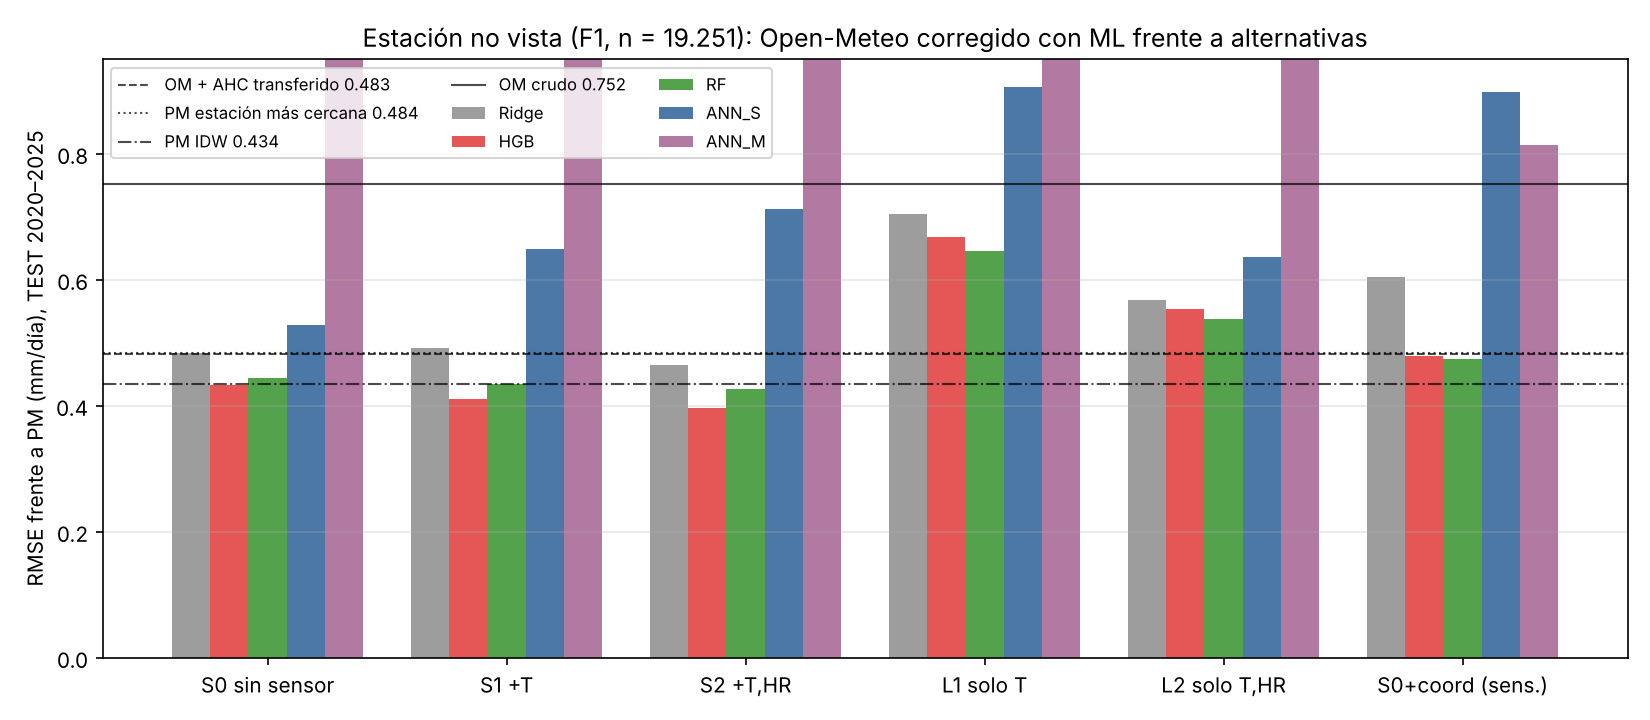
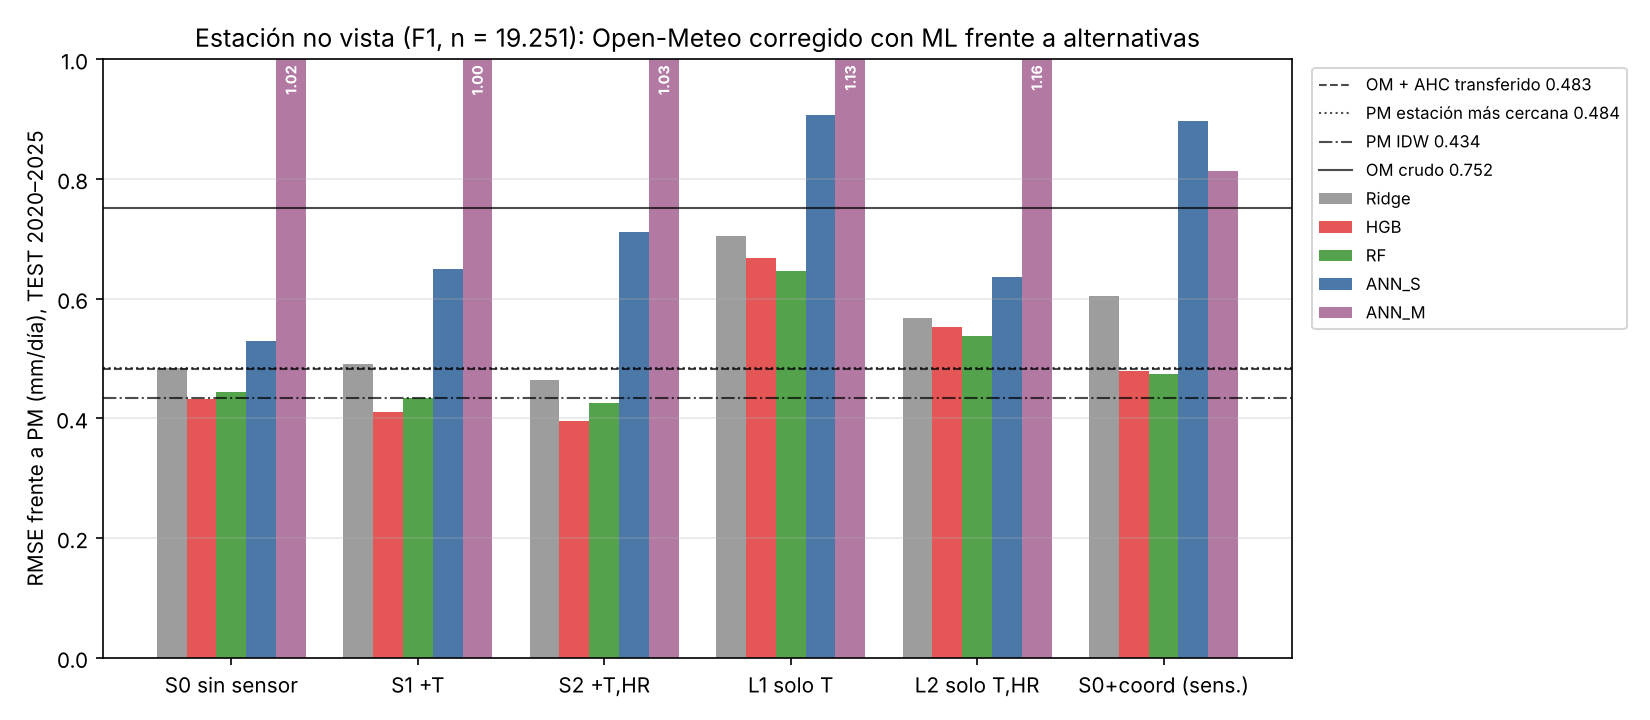
03.2: análisis e interpretación completos; diagnóstico del fallo de las ANN (extrapolación de altitud en IB01)
- README: estado completo (360/360), tiempos reales de Kaggle, tabla RMSE por escenario y modelo,
  RF y ANN (secundario), sensibilidad sin IB01, interpretación y salvedades.
- diagnostico_ann_altitud.py (+ test): rangos de inputs estáticos, F1 sin IB01 con el mismo
  bootstrap y RMSE por semilla. Exploratorio, sin veredicto.
- report.py: figura 1 sin barras tapadas (valores rotulados) y nueva figura 4 (ANN por estación y altitud).
- Veredictos H1-H4 sin cambios.

Claude-Session: https://claude.ai/code/session_014ePgLxXa6utbKFVDTTjPkL

diff --git a/studies/03_loso_openmeteo_ml/diagnostico_ann_altitud.py b/studies/03_loso_openmeteo_ml/diagnostico_ann_altitud.py
@@ -1,0 +1,100 @@
+"""Diagnóstico posterior (sin veredicto) del fallo de las ANN en F1: extrapolación de inputs estáticos.
+
+No forma parte de la regla de decisión ni cambia ningún criterio. Lee las predicciones ya calculadas
+(`results/predictions_test.csv.gz`, `results/cells/`) y escribe:
+
+- results/diagnostico_rango_inputs_estaticos.csv: por estación dejada fuera, si su altitud, latitud o
+  longitud caen fuera del rango de las 8 estaciones de entrenamiento.
+- results/diagnostico_sin_IB01.csv: F1 sin IB01 (8 estaciones), ΔRMSE con IC 95 % (mismo bootstrap de
+  bloques estación-año, mismas funciones que report.py) y RMSE por semilla de las ANN.
+
+    python studies/03_loso_openmeteo_ml/diagnostico_ann_altitud.py
+"""
+from __future__ import annotations
+
+import gzip
+import json
+import sys
+from pathlib import Path
+
+import numpy as np
+import pandas as pd
+
+sys.path.insert(0, str(Path(__file__).resolve().parent))
+from run import CELLS, RES, lc  # noqa: E402
+
+MODELS = ["Ridge", "HGB", "RF", "ANN_S", "ANN_M"]
+SCEN = ["S0", "S1", "S2", "L1", "L2", "S0_coord"]
+COMP = ["OM_AHC_mensual_medio_entrenamiento", "PM_estacion_mas_cercana_mismo_dia",
+        "PM_IDW_estaciones_entrenamiento_mismo_dia"]
+
+
+def static_ranges():
+    st = lc.load_stations().rename(columns={"latitude_deg": "lat", "longitude_deg_derived": "lon"})
+    rows = []
+    for c in st.index:
+        o = st.drop(c)
+        row = {"station_code": c}
+        for k in ("altitude_m", "lat", "lon"):
+            row[k] = float(st.loc[c, k])
+            row[f"{k}_train_min"], row[f"{k}_train_max"] = float(o[k].min()), float(o[k].max())
+            row[f"{k}_fuera_de_rango"] = not (o[k].min() <= st.loc[c, k] <= o[k].max())
+        rows.append(row)
+    return pd.DataFrame(rows)
+
+
+def without(pred, station="IB01"):
+    q = pred[pred.fold.str.startswith("F1") & (pred.station_code != station)].reset_index(drop=True)
+    bi, _ = lc.block_index(q.station_code, q.date)
+    draws = lc.boot_draws(bi.max() + 1)
+    rows = []
+
+    def add(kind, a, b):
+        d0, lo, hi = lc.paired_delta_ci(q[a].to_numpy(), q[b].to_numpy(), q.pm.to_numpy(), bi, draws)
+        rows.append({"kind": kind, "A": a, "B": b, "n": len(q), "n_blocks": int(bi.max() + 1),
+                     "rmse_A": lc.metrics(q[a], q.pm)["rmse"], "rmse_B": lc.metrics(q[b], q.pm)["rmse"],
+                     "delta_rmse": d0, "ci95_lo": lo, "ci95_hi": hi})
+
+    for s in SCEN:
+        for m in MODELS:
+            if m != "HGB":
+                add("modelo_vs_HGB", f"{s}|{m}", f"{s}|HGB")
+    for m in MODELS:
+        for c in COMP:
+            add("S0_vs_comparador", f"S0|{m}", c)
+    add("hipotesis_H1_sin_IB01", "S0|HGB", COMP[0])
+    add("hipotesis_H2_sin_IB01", "S0|HGB", COMP[1])
+    add("hipotesis_H3_sin_IB01", "S2|HGB", "S0|HGB")
+    return pd.DataFrame(rows)
+
+
+def seed_rmse(pred, station="IB01"):
+    rows = []
+    f1 = pred[pred.fold.str.startswith("F1")]
+    for m in ("ANN_S", "ANN_M"):
+        for s in SCEN:
+            for excl in (False, True):
+                err = [[] for _ in range(5)]
+                for f in sorted(CELLS.glob(f"F1_*__{s}__{m}.json.gz")):
+                    c = json.load(gzip.open(f))
+                    if excl and station in c["fold"]:
+                        continue
+                    ref = f1[f1.fold == c["fold"]].pm.to_numpy()
+                    for i, sp in enumerate(c["seed_preds"]):
+                        err[i].append(np.asarray(sp) - ref)
+                r = [float(np.sqrt(np.mean(np.concatenate(e) ** 2))) for e in err]
+                rows.append({"model": m, "scenario": s, "sin": station if excl else "", "rmse_seeds": r,
+                             "rmse_seed_min": min(r), "rmse_seed_max": max(r), "rmse_seed_sd": float(np.std(r, ddof=1))})
+    return pd.DataFrame(rows)
+
+
+def main():
+    pred = pd.read_csv(RES / "predictions_test.csv.gz")
+    static_ranges().to_csv(RES / "diagnostico_rango_inputs_estaticos.csv", index=False)
+    without(pred).to_csv(RES / "diagnostico_sin_IB01.csv", index=False, float_format="%.6f")
+    seed_rmse(pred).to_csv(RES / "diagnostico_semillas_ann.csv", index=False, float_format="%.6f")
+    print("escrito: diagnostico_rango_inputs_estaticos.csv, diagnostico_sin_IB01.csv, diagnostico_semillas_ann.csv")
+
+
+if __name__ == "__main__":
+    main()

diff --git a/studies/03_loso_openmeteo_ml/report.py b/studies/03_loso_openmeteo_ml/report.py
@@ -276,8 +276,15 @@ def figures(glob, by_st, by_m):
                                           "S0+coord (sens.)"])
     ax.set_ylabel("RMSE frente a PM (mm/día), TEST 2020–2025")
     ax.set_title("Estación no vista (F1, n = 19.251): Open-Meteo corregido con ML frente a alternativas")
-    ax.legend(fontsize=8, ncol=3, loc="upper left")
-    ax.set_ylim(0, 0.95)
+    top = 1.0
+    for i, m in enumerate(models):  # barras recortadas por el eje: se rotula su valor
+        for j, s_ in enumerate(SCENARIOS):
+            v = g.get(f"{s_}|{m}", np.nan)
+            if np.isfinite(v) and v > top:
+                ax.text(j + (i - (len(models) - 1) / 2) * w, top - 0.01, f"{v:.2f}", rotation=90,
+                        ha="center", va="top", fontsize=7, color="white", fontweight="bold")
+    ax.legend(fontsize=8, ncol=1, loc="upper left", bbox_to_anchor=(1.01, 1.0))
+    ax.set_ylim(0, top)
     ax.grid(axis="y", alpha=0.3)
     fig.tight_layout()
     fig.savefig(FIG / "01_rmse_escenario_modelo.png", dpi=150)
@@ -301,6 +308,31 @@ def figures(glob, by_st, by_m):
     fig.tight_layout()
     fig.savefig(FIG / "02_rmse_por_estacion.png", dpi=150)
     plt.close(fig)
+
+    # 4: ANN frente a HGB y RF por estacion (S0): extrapolacion en altitud
+    alt = lc.load_stations().altitude_m
+    keys = [(m, f"S0|{m}") for m in ("HGB", "RF", "ANN_S", "ANN_M") if f"S0|{m}" in s]
+    if keys:
+        fig, ax = plt.subplots(figsize=(11, 4.5))
+        w = 0.8 / len(keys)
+        top = 1.2
+        for i, (lab, k) in enumerate(keys):
+            x = np.arange(len(s)) + (i - (len(keys) - 1) / 2) * w
+            ax.bar(x, np.minimum(s[k], top), w, label=lab, color=COLORS[lab])
+            for xi, v in zip(x, s[k]):
+                if v > top:
+                    ax.text(xi, top - 0.02, f"{v:.2f}", rotation=90, ha="center", va="top", fontsize=7,
+                            color="white", fontweight="bold")
+        ax.set_xticks(range(len(s)), [f"{c}\n{alt.get(c, np.nan):.0f} m" for c in s.index])
+        ax.set_ylabel("RMSE (mm/día)")
+        ax.set_title("S0 por estación dejada fuera (F1): las ANN fallan donde la altitud queda fuera del rango "
+                     "de entrenamiento (IB01, 120 m; resto 4–82 m)", fontsize=10)
+        ax.set_ylim(0, top)
+        ax.legend(fontsize=8, ncol=4, loc="upper right")
+        ax.grid(axis="y", alpha=0.3)
+        fig.tight_layout()
+        fig.savefig(FIG / "04_ann_por_estacion_altitud.png", dpi=150)
+        plt.close(fig)
 
     # 3: por mes
     mm = by_m[(by_m.scope == "F1") & (by_m.breakdown == "month")].pivot(index="key", columns="method", values="rmse")

diff --git a/tests/test_estudio_03_2.py b/tests/test_estudio_03_2.py
@@ -149,3 +149,13 @@ class KaggleSessionsPartitionTest(unittest.TestCase):
         heavy = {(f["id"], s, m) for f, s, m in r.select_cells(r.HEAVY)}
         self.assertEqual(set(seen), heavy)
         self.assertEqual(len(heavy), 216)
+
+
+@unittest.skipUnless(HAVE, "faltan numpy/pandas/sklearn")
+class DiagnosticoAltitudTest(unittest.TestCase):
+    def test_static_ranges_flags_out_of_range_stations(self):
+        d = _load("estudio03_2_diag", STUDY / "diagnostico_ann_altitud.py").static_ranges().set_index("station_code")
+        self.assertEqual(len(d), 9)
+        self.assertEqual(set(d.index[d.altitude_m_fuera_de_rango]), {"IB01", "IB06"})
+        self.assertEqual(set(d.index[d.lat_fuera_de_rango]), {"IB08", "IB11"})
+        self.assertEqual(d.loc["IB01", "altitude_m_train_max"], 82.0)

diff --git a/studies/03_loso_openmeteo_ml/README.md b/studies/03_loso_openmeteo_ml/README.md
@@ -4,7 +4,7 @@
 
 Estado: **PLAN**. Protocolo y criterios en `config/thresholds_v3.json`; se congelan al fusionar el PR que los introduce, antes de ejecutar nada de este protocolo.
 
-> **Ejecución (2026-11-26): EN PARTE.** Hecho: todos los comparadores, Ridge y HGB (primario) en las 12 particiones y los 6 escenarios, es decir, **todo lo que entra en H1–H4**, con veredicto más abajo («Resultados»). Pendiente: RF, ANN-S y ANN-M (216 celdas, secundarios; se ejecutan en Kaggle). El plan de abajo no se ha tocado: `thresholds_v3.json` quedó congelado al fusionar el PR #8.
+> **Ejecución (2026-11-26/27): COMPLETA.** Las 360 celdas (12 particiones × 6 escenarios × Ridge, HGB, RF, ANN-S y ANN-M) y todos los comparadores. **H1–H4 se cumplen** (H1 y H3, «significativas pero pequeñas»); veredicto, interpretación y salvedades en «Resultados». El plan de abajo no se ha tocado: `thresholds_v3.json` quedó congelado al fusionar el PR #8.
 
 ## Por qué este estudio (cambio de rumbo)
 
@@ -112,7 +112,7 @@ Dependencias: este estudio usa scikit-learn, pandas y numpy (`requirements.txt` 
 
 ---
 
-# Resultados (ejecución del 2026-11-26)
+# Resultados (ejecución del 2026-11-26/27)
 
 ## Estado de la ejecución
 
@@ -121,33 +121,36 @@ Dependencias: este estudio usa scikit-learn, pandas y numpy (`requirements.txt` 
 | Comparadores (OM crudo, OM + AHC transferido y vecino, PM más cercana, IDW) y techo local | — | hecho | entorno de trabajo de Claude |
 | Ridge | 72 | hecho | entorno de trabajo de Claude (~1 s/celda) |
 | HGB (primario) | 72 | hecho | entorno de trabajo de Claude (~1 min/celda) |
-| RF | 72 | **en ejecución** | Kaggle, sesiones 1 y 2 |
-| ANN-S y ANN-M (5 semillas) | 144 | **en ejecución** | Kaggle, sesiones 3 y 4 |
+| RF | 72 | hecho | Kaggle, sesiones 1 y 2 |
+| ANN-S y ANN-M (5 semillas) | 144 | hecho | Kaggle, sesiones 3 y 4 |
 
-Celda = partición (9 F1 + 3 F2) × escenario (S0, S1, S2, L1, L2, S0_coord) × modelo. Cada celda se guarda en `results/cells/` (gzip, escritura atómica: se escribe en `.tmp` y se renombra) con sus predicciones, la rejilla de validación interna, el número de recortes a 0 y el entorno con el que se calculó. `report` une las que haya; las que faltan se listan en `results/run_manifest.json` (`missing_cells`).
-
-```
-python studies/03_loso_openmeteo_ml/run.py fit --models Ridge,HGB --workers 2   # hecho (~35 min con 2 núcleos)
-python studies/03_loso_openmeteo_ml/run.py report                              # ~25 s
-```
-
-**En Kaggle (lanzado el 2026-11-27).** `kaggle_session.sh N` (CPU sin acelerador, internet activado, 4 núcleos, `--max-hours 8`), clonando esta rama:
+**Total: 360/360 celdas**; `results/run_manifest.json` → `missing_cells` vacío. Celda = partición (9 F1 + 3 F2) × escenario (S0, S1, S2, L1, L2, S0_coord) × modelo. Cada celda se guarda en `results/cells/` (gzip, escritura atómica: se escribe en `.tmp` y se renombra) con sus predicciones (y las de cada semilla en las ANN), la rejilla de validación interna, el número de recortes a 0 y el entorno con el que se calculó.
 
 ```
-!git clone --depth 1 -b estudio-03-2-ejecucion https://github.com/lependens/Capitulo-2 && cd Capitulo-2 && bash studies/03_loso_openmeteo_ml/kaggle_session.sh 1
+python studies/03_loso_openmeteo_ml/run.py fit --models Ridge,HGB --workers 2   # ~35 min con 2 núcleos
+bash   studies/03_loso_openmeteo_ml/kaggle_session.sh N                         # N = 1..4, en Kaggle (RF y ANN)
+python studies/03_loso_openmeteo_ml/run.py report                              # ~25 s: tablas, IC, decision.json, figuras
+python studies/03_loso_openmeteo_ml/diagnostico_ann_altitud.py                 # diagnóstico posterior de las ANN (sin veredicto)
 ```
 
-La cuenta admite 4 sesiones a la vez, así que el trabajo pesado se reparte en 4 sesiones paralelas sin solaparse (un test comprueba que cubren las 216 celdas exactamente una vez):
+**Kaggle (2026-11-27).** `kaggle_session.sh N` (CPU sin acelerador, internet activado, 4 núcleos, `--max-hours 8`), clonando esta rama:
 
-| Sesión | Contenido | Celdas | Estimación |
-|---|---|---|---|
-| 1 | RF, F1 IB01–IB05 | 30 | ~10–11 h de núcleo → ~3 h con 4 núcleos |
-| 2 | RF, F1 IB06, IB08, IB10, IB11 y las 3 particiones F2 | 42 | ~12–13 h → ~3,5 h |
-| 3 | ANN-S, todo | 72 | ~7–9 h → ~2–2,5 h |
-| 4 | ANN-M, todo | 72 | ~8–11 h → ~2,5–3 h |
-| 0 | lo pesado que falte (continuación) | — | — |
+```
+!git clone -b estudio-03-2-ejecucion https://github.com/lependens/Capitulo-2.git
+%cd Capitulo-2
+!bash studies/03_loso_openmeteo_ml/kaggle_session.sh N
+```
 
-Base de la estimación (medido aquí, un núcleo): un RF de 300 árboles con todo el entrenamiento de S2 (42.957 filas × 16 inputs) tarda 90 s; una celda son 2 configuraciones × (8 ajustes de validación interna + 1 final), ≈ 20–25 min (L1/L2, con 6–7 inputs, menos). Una MLP tarda 3–7 s; una celda ANN son 85 ajustes (2 configuraciones × 8 folds × 5 semillas + 5 finales), ≈ 6–10 min. Si alguna sesión llega al tope de 8 h sin acabar, se continúa con una versión nueva que monte la salida anterior como entrada (`kaggle_session.sh 0`): el guion recupera las celdas del 03.2 (`celdas_03_2_sesion_*.zip` o `.json.gz` sueltos, solo con nombres de celda del 03.2; ignora los del 03.1) y salta las hechas. Cada sesión deja `celdas_03_2_sesion_N.zip`, que se descomprime en `results/cells/` antes de volver a ejecutar `report`.
+La cuenta admite 4 sesiones a la vez; el trabajo pesado se repartió en 4 sesiones paralelas sin solaparse (un test comprueba que cubren las 216 celdas exactamente una vez). Ninguna llegó al tope de 8 h, así que no hizo falta la sesión de continuación (`kaggle_session.sh 0`).
+
+| Sesión | Contenido | Celdas | Estimación previa | Real |
+|---|---|---|---|---|
+| 1 | RF, F1 IB01–IB05 | 30 | ~3 h | 257 min |
+| 2 | RF, F1 IB06, IB08, IB10, IB11 y las 3 particiones F2 | 42 | ~3,5 h | 266 min |
+| 3 | ANN-S, todo | 72 | ~2–2,5 h | 258 min |
+| 4 | ANN-M, todo | 72 | ~2,5–3 h | ~329 min |
+
+La estimación (medida aquí con un núcleo y escalada a 4) se quedó corta en un factor de 1,2–2: probablemente porque Kaggle es más lento por núcleo y las celdas corren en paralelo (no se ha medido por separado). Cada sesión dejó `celdas_03_2_sesion_N.zip`, que se descomprimió en `results/cells/` antes de `report`.
 
 ## Paso previo
 
@@ -193,9 +196,21 @@ RMSE en mm/día. Tabla completa en `results/metrics_global.csv`.
 | HGB L1 (solo sensor T) | 0,668 | 0,496 | +0,219 | 0,847 |
 | HGB L2 (solo sensor T y HR) | 0,553 | 0,399 | +0,157 | 0,895 |
 | HGB S0 + coordenadas (sensibilidad) | 0,479 | 0,355 | +0,046 | 0,921 |
-| Ridge S0 / S1 / S2 / L1 / L2 / S0+coord | 0,484 / 0,491 / 0,465 / 0,704 / 0,568 / 0,604 | | | |
 | *Techo local (no LOSO): OM + AHC mensual local (estudio 02)* | *0,427* | | | |
 | *Techo local: V2 ANN E anual HS-Ra / Valiantzas / HG-Rs* | *0,533 / 0,421 / 0,368* | | | |
+
+**RMSE F1 por escenario y modelo** (ANN = ensemble de 5 semillas; sesgo entre paréntesis):
+
+| Escenario | Ridge | **HGB** | RF | ANN-S | ANN-M |
+|---|---|---|---|---|---|
+| S0 sin sensor | 0,484 (+0,06) | **0,433** (+0,04) | 0,444 (+0,03) | 0,528 (−0,08) | 1,020 (−0,25) |
+| S1 + termómetro | 0,491 (+0,11) | **0,411** (+0,10) | 0,434 (+0,06) | 0,649 (−0,11) | 1,002 (−0,21) |
+| S2 + termohigrómetro | 0,465 (+0,07) | **0,396** (+0,09) | 0,426 (+0,04) | 0,712 (−0,17) | 1,031 (−0,26) |
+| L1 solo sensor T | 0,704 (+0,20) | 0,668 (+0,22) | **0,646** (+0,18) | 0,906 (−0,08) | 1,128 (−0,15) |
+| L2 solo sensor T, HR | 0,568 (+0,11) | 0,553 (+0,16) | **0,538** (+0,11) | 0,636 (−0,04) | 1,159 (−0,23) |
+| S0 + coordenadas | 0,604 (+0,05) | 0,479 (+0,05) | **0,474** (+0,03) | 0,897 (−0,09) | 0,813 (+0,11) |
+
+Las cifras globales de las ANN están dominadas por **una sola estación (IB01)**; ver «RF y ANN» más abajo.
 
 ![RMSE por escenario y modelo](figures/01_rmse_escenario_modelo.png)
 
@@ -222,6 +237,10 @@ RMSE en mm/día. Tabla completa en `results/metrics_global.csv`.
 
 Cifras ajustadas: H1 queda a 0,0002 del umbral práctico y H2 a 0,001. Se informan tal cual salen de la regla.
 
+**Al completar RF y ANN el veredicto no cambia** (`decision.json` regenerado con las 360 celdas: los mismos valores). Ni RF ni ninguna ANN supera a HGB en el conjunto de F1, así que HGB sigue siendo la elección razonable además de la prefijada.
+
+**Sensibilidad (sin veredicto): sin IB01** (la estación que hace fallar a las ANN; `results/diagnostico_sin_IB01.csv`, mismo bootstrap): H1 −0,053 [−0,073; −0,032]; H2 −0,032 [−0,063; −0,001]; H3 −0,034 [−0,060; −0,007]. Las tres siguen cumpliendo su criterio, pero H2 pasa a «significativa pero pequeña» y su IC roza 0: buena parte de la ventaja sobre la estación más cercana viene de IB01 (Ibiza): su estación más cercana es IB11 (Formentera, a 32 km), cuya PM tiene allí un RMSE de 0,571 y un sesgo de +0,27, frente a 0,382 de HGB-S0.
+
 ## Secundario (sin veredicto)
 
 - **Por estación** (F1, `metrics_by_station.csv`, figura 2): HGB-S0 va de 0,36 (IB10) a 0,63 (IB11). Tiene menor RMSE que OM + AHC transferido en 7 de 9 estaciones; prácticamente igual en IB04 (0,417 frente a 0,416) y peor en IB05 (0,412 frente a 0,351). En IB04, IB05 e IB06 (Mallorca central) la IDW es la mejor opción (las estaciones vecinas están cerca). El sensor (S2) mejora en 6 de 9 estaciones, pero empeora en IB04, IB05 e IB06.
@@ -236,12 +255,51 @@ Cifras ajustadas: H1 queda a 0,0002 del umbral práctico y H2 a 0,001. Se inform
 
 ![RMSE por mes](figures/03_rmse_por_mes.png)
 
-## Pendiente
+## RF y ANN (secundario, sin veredicto)
 
-RF, ANN-S y ANN-M (216 celdas, ≈ 40–45 h de un núcleo), según «Estado de la ejecución». No intervienen en ninguna hipótesis, así que **los veredictos de H1–H4 no cambian al completarlas**. Al terminar se completan aquí la fila de cada modelo, `ann_seed_spread.csv` (dispersión entre semillas) y las figuras.
+No intervienen en H1–H4. Comparaciones emparejadas completas en `results/paired_ci.csv` (`kind = modelo_vs_HGB` y `vs_comparador`).
+
+**Random Forest.** Sigue el mismo patrón que HGB con algo más de error cuando hay inputs de Open-Meteo: ΔRMSE RF − HGB en S0 +0,011 [+0,002; +0,020], S1 +0,023 [+0,004; +0,043] y S2 +0,030 [+0,009; +0,050] (las tres «significativas pero pequeñas»). En los modelos solo de sensor es algo mejor: L1 −0,023 [−0,041; −0,005]. RF-S0 gana a OM + AHC transferido (−0,039 [−0,053; −0,022]) y a la estación más cercana (−0,040 [−0,072; −0,008]) y empata con la IDW (+0,010 [−0,015; +0,033]). Es decir, **las conclusiones de H1–H4 se sostienen con cualquiera de los dos modelos de árboles**. RF no recorta ninguna predicción a 0 y elige `min_samples_leaf = 5` en las 9 particiones.
+
+**ANN-S y ANN-M: fallan por extrapolación de la altitud en IB01.** En el conjunto de F1 las dos ANN son peores que HGB en todos los escenarios, y ANN-M (~1,0 mm/día) llega a ser peor que Open-Meteo crudo. Pero el fallo está en una sola estación:
+
+| RMSE S0 por estación dejada fuera | IB01 | IB02 | IB03 | IB04 | IB05 | IB06 | IB08 | IB10 | IB11 |
+|---|---|---|---|---|---|---|---|---|---|
+| Altitud (m) | **120** | 78 | 79 | 8 | 82 | 4 | 40 | 30 | 7 |
+| HGB | 0,38 | 0,42 | 0,37 | 0,42 | 0,41 | 0,39 | 0,46 | 0,36 | 0,63 |
+| RF | 0,38 | 0,47 | 0,34 | 0,40 | 0,42 | 0,38 | 0,52 | 0,39 | 0,64 |
+| ANN-S | **1,02** | 0,44 | 0,32 | 0,39 | 0,46 | 0,36 | 0,49 | 0,37 | 0,55 |
+| ANN-M | **2,77** | 0,44 | 0,32 | 0,39 | 0,47 | 0,37 | 0,51 | 0,35 | 0,56 |
+
+![ANN por estación y altitud](figures/04_ann_por_estacion_altitud.png)
+
+Diagnóstico (`diagnostico_ann_altitud.py`, posterior a la ejecución; no cambia nada del protocolo):
+
+1. **IB01 es la única estación con un input fuera del rango de entrenamiento en todos sus días:** su altitud (120 m) supera la de las 8 estaciones de entrenamiento (4–82 m). Todos los inputs de Open-Meteo de IB01 caen dentro del rango visto (`diagnostico_rango_inputs_estaticos.csv`).
+2. **El error es un desplazamiento constante, no ruido:** ANN-M en IB01 tiene sesgo −2,52 mm/día, de magnitud parecida todos los años 2020–2025 (RMSE anual 2,6–2,8). Así, 7.184 de sus 7.185 recortes a 0 en F1 son de IB01. Una red con activación ReLU extrapola linealmente fuera del rango; los árboles (HGB, RF) dan el valor del extremo visto (82 m) y no sufren.
+3. **El mismo fallo aparece donde otro input estático sale de rango:** en S0 + coordenadas, IB08 (la más al norte y al este) e IB11 (la más al sur y al oeste) quedan fuera del rango de latitud y longitud, y ahí las ANN suben a 0,9–1,9 mm/día mientras HGB y RF se quedan en 0,62–0,66. IB06 está 3 m por debajo del mínimo de altitud y no se nota.
+4. **Sin IB01 las ANN son tan buenas como HGB o mejores** (`diagnostico_sin_IB01.csv`, 8 estaciones, n = 17.059): en S0–S2 empatan (ANN-M − HGB en S2: −0,015 [−0,035; +0,007]) y en los modelos solo de sensor ganan (L2: ANN-M −0,051 [−0,072; −0,030]; L1: ANN-S −0,050 [−0,075; −0,026]). También recuperan el orden esperado: con sensor mejoran (ANN-S: S0 0,428 → S2 0,395), mientras que en el global parecía lo contrario.
+5. **La inestabilidad entre semillas también es de IB01:** en S0, el RMSE de cada semilla de ANN-S va de 0,44 a 0,98 con IB01 y de 0,432 a 0,436 sin ella (DT 0,001). Sin IB01, la DT entre semillas es ≤ 0,012 mm/día en todos los escenarios salvo S0 + coordenadas (`diagnostico_semillas_ann.csv`). Cuál de las semillas extrapola peor en IB01 es casi aleatorio (ANN-S S0: sesgos de −2,4 a +1,0 según semilla).
+
+Las dos pistas alternativas del traspaso (la parada temprana de `MLPRegressor` valida con un 10 % aleatorio, no agrupado por estación, y el objetivo no se escala) **no explican el fallo**: con ese mismo entrenamiento las ANN van bien en las 8 estaciones dentro de rango. El código de las ANN es copia literal y congelada del 03.1, así que no se ha corregido nada; se informa tal cual. Esto **confirma la explicación que el 03.1 dejó como «posible, no comprobada»** para su variante secundaria con altitud: allí las ANN también subían a 0,5–1,25 mm/día con sesgo negativo y gran dispersión entre semillas.
+
+**F2 (fuera de isla).** Fuera Ibiza (incluye IB01) las ANN fallan por lo mismo (S0: ANN-S 1,11, ANN-M 2,01, frente a HGB 0,51). Fuera Menorca, ANN-S (0,487) y ANN-M (0,506) ganan a los tres comparadores, como HGB (0,458) y RF (0,519). Fuera Mallorca (informativo, 3 estaciones de entrenamiento): RF 0,440 empata con OM + AHC transferido (0,428; +0,012 [−0,024; +0,047]) y es el mejor de los ML; HGB 0,477 y las ANN 0,52–0,53.
+
+**Hiperparámetros** (`model_selection.csv`, F1-S0): ANN-S elige α = 10⁻⁴ en 5 de 9 particiones y ANN-M en 8 de 9. No hay avisos de convergencia en ninguna de las 360 celdas.
+
+## Interpretación
+
+1. **El cambio de rumbo se sostiene, con ganancias modestas.** En una estación no vista, Open-Meteo corregido con HGB y sin sensor baja el error un ~10 % respecto a las dos alternativas sencillas con las que se comparaba (coeficiente mensual transferido y copiar la estación SIAR más cercana). Las mejoras rondan el umbral práctico de 0,05 mm/día, así que son reales pero pequeñas. Frente a la IDW del mismo día empata; su valor práctico es que no necesita la red SIAR del día, lo que la hace utilizable fuera de la red y con previsión (estudio 04).
+2. **Un termohigrómetro ayuda poco, y solo combinado con Open-Meteo.** S2 mejora 0,037 mm/día (−9 %); el sensor solo (L1, L2) es claramente peor que Open-Meteo sin sensor. Para un usuario sin estación, el input que más pesa es Open-Meteo, no su sensor.
+3. **Los árboles son la elección segura para aplicar el modelo en sitios nuevos.** HGB y RF dan resultados parecidos y estables en todas las estaciones. Las ANN igualan o mejoran a HGB cuando todos los inputs están dentro del rango de entrenamiento, pero fallan de forma grave y silenciosa (sesgo de −2,5 mm/día, sin aviso) cuando uno sale de él.
+4. **Implicación para el servicio: la altitud (y cualquier input estático) es un riesgo fuera de rango.** Las 9 estaciones SIAR están entre 4 y 120 m, y el usuario puede estar mucho más alto (la sierra de Tramuntana supera los 1.000 m). Una ANN extrapolaría sin control. Un árbol no extrapola: trataría 500 m como si fueran 120 m, también sin aviso, y su error a esa altitud no está medido en este estudio. Esto no cambia nada del 03.2, pero debería tenerse en cuenta al diseñar el estudio 04 y el servicio. Posibles medidas: comprobar que los inputs del usuario están dentro del rango de entrenamiento (control de dominio) y avisar si no; o quitar los inputs estáticos que solo identifican la estación. Cualquiera de ellas debería probarse con su propio protocolo congelado.
+5. **Lo que no cubre este estudio:** 9 estaciones casi todas costeras y bajas, una sola fuente meteorológica (Open-Meteo `archive`, reanálisis, no previsión) y un periodo de prueba de 6 años. H1 y H2 están en el borde del umbral práctico: con otras estaciones o años podrían quedar a un lado u otro de 0,05.
 
 ## Salvedades de la ejecución
 
 - Esta rama parte de `main` (con el PR #8 fusionado, criterios congelados). El PR #9 (criterios del 03.1) no estaba fusionado; de la rama del 03.1 solo se traen, sin cambios, los inputs 2004–2019 y el código común.
 - Las celdas de Ridge y HGB se calcularon en el entorno de trabajo de Claude con las versiones fijadas en `requirements.txt` (las mismas que exige `check_env.py` en Kaggle); el entorno de cada celda queda guardado en ella.
 - H1 y H2 quedan muy cerca del umbral práctico; con otro corte temporal o más estaciones podrían caer a uno u otro lado de 0,05.
+- RF y ANN se calcularon en Kaggle (CPU, 4 núcleos) con las mismas versiones fijadas (`check_env.py` lo exige antes de empezar); el entorno queda guardado en cada celda.
+- El diagnóstico de las ANN (`diagnostico_ann_altitud.py`, ficheros `results/diagnostico_*.csv`, figura 4) se hizo **después** de ver los resultados: es exploratorio y no tiene veredicto. Las cifras «sin IB01» no sustituyen a las del protocolo.
+- Recortes a 0 en total (F1 + F2): Ridge 489, HGB 0, RF 0, ANN-S 8.188, ANN-M 15.426, casi todos en las estaciones con inputs fuera de rango.

diff --git a/studies/03_loso_openmeteo_ml/TRASPASO_ANALISIS.md b/studies/03_loso_openmeteo_ml/TRASPASO_ANALISIS.md
@@ -1,5 +1,7 @@
 # Traspaso: análisis e interpretación del estudio 03.2
 
+> **HECHO (2026-11-27).** Análisis e interpretación redactados en el README («RF y ANN», «Interpretación»). Diagnóstico del fallo de las ANN: extrapolación de la altitud en IB01 (`diagnostico_ann_altitud.py`, figura 4). Este fichero queda como registro del traspaso.
+
 **Estado (2026-11-27 15:45): LISTO PARA ANÁLISIS.** 360/360 celdas en `results/cells/` (72 por modelo), `missing_cells` vacío, `report` regenerado con todo, 34 tests OK. `decision.json`: H1–H4 se cumplen, igual que en el README. Tiempos Kaggle: sesiones 1–4 = 257, 266, 258 y ~329 min (4 núcleos).
 
 Este documento es para quien haga el análisis final, previsto con Opus 5.5. La ejecución está hecha y es mecánica. Lo que queda es **leer los resultados, interpretarlos y redactar el README**.
